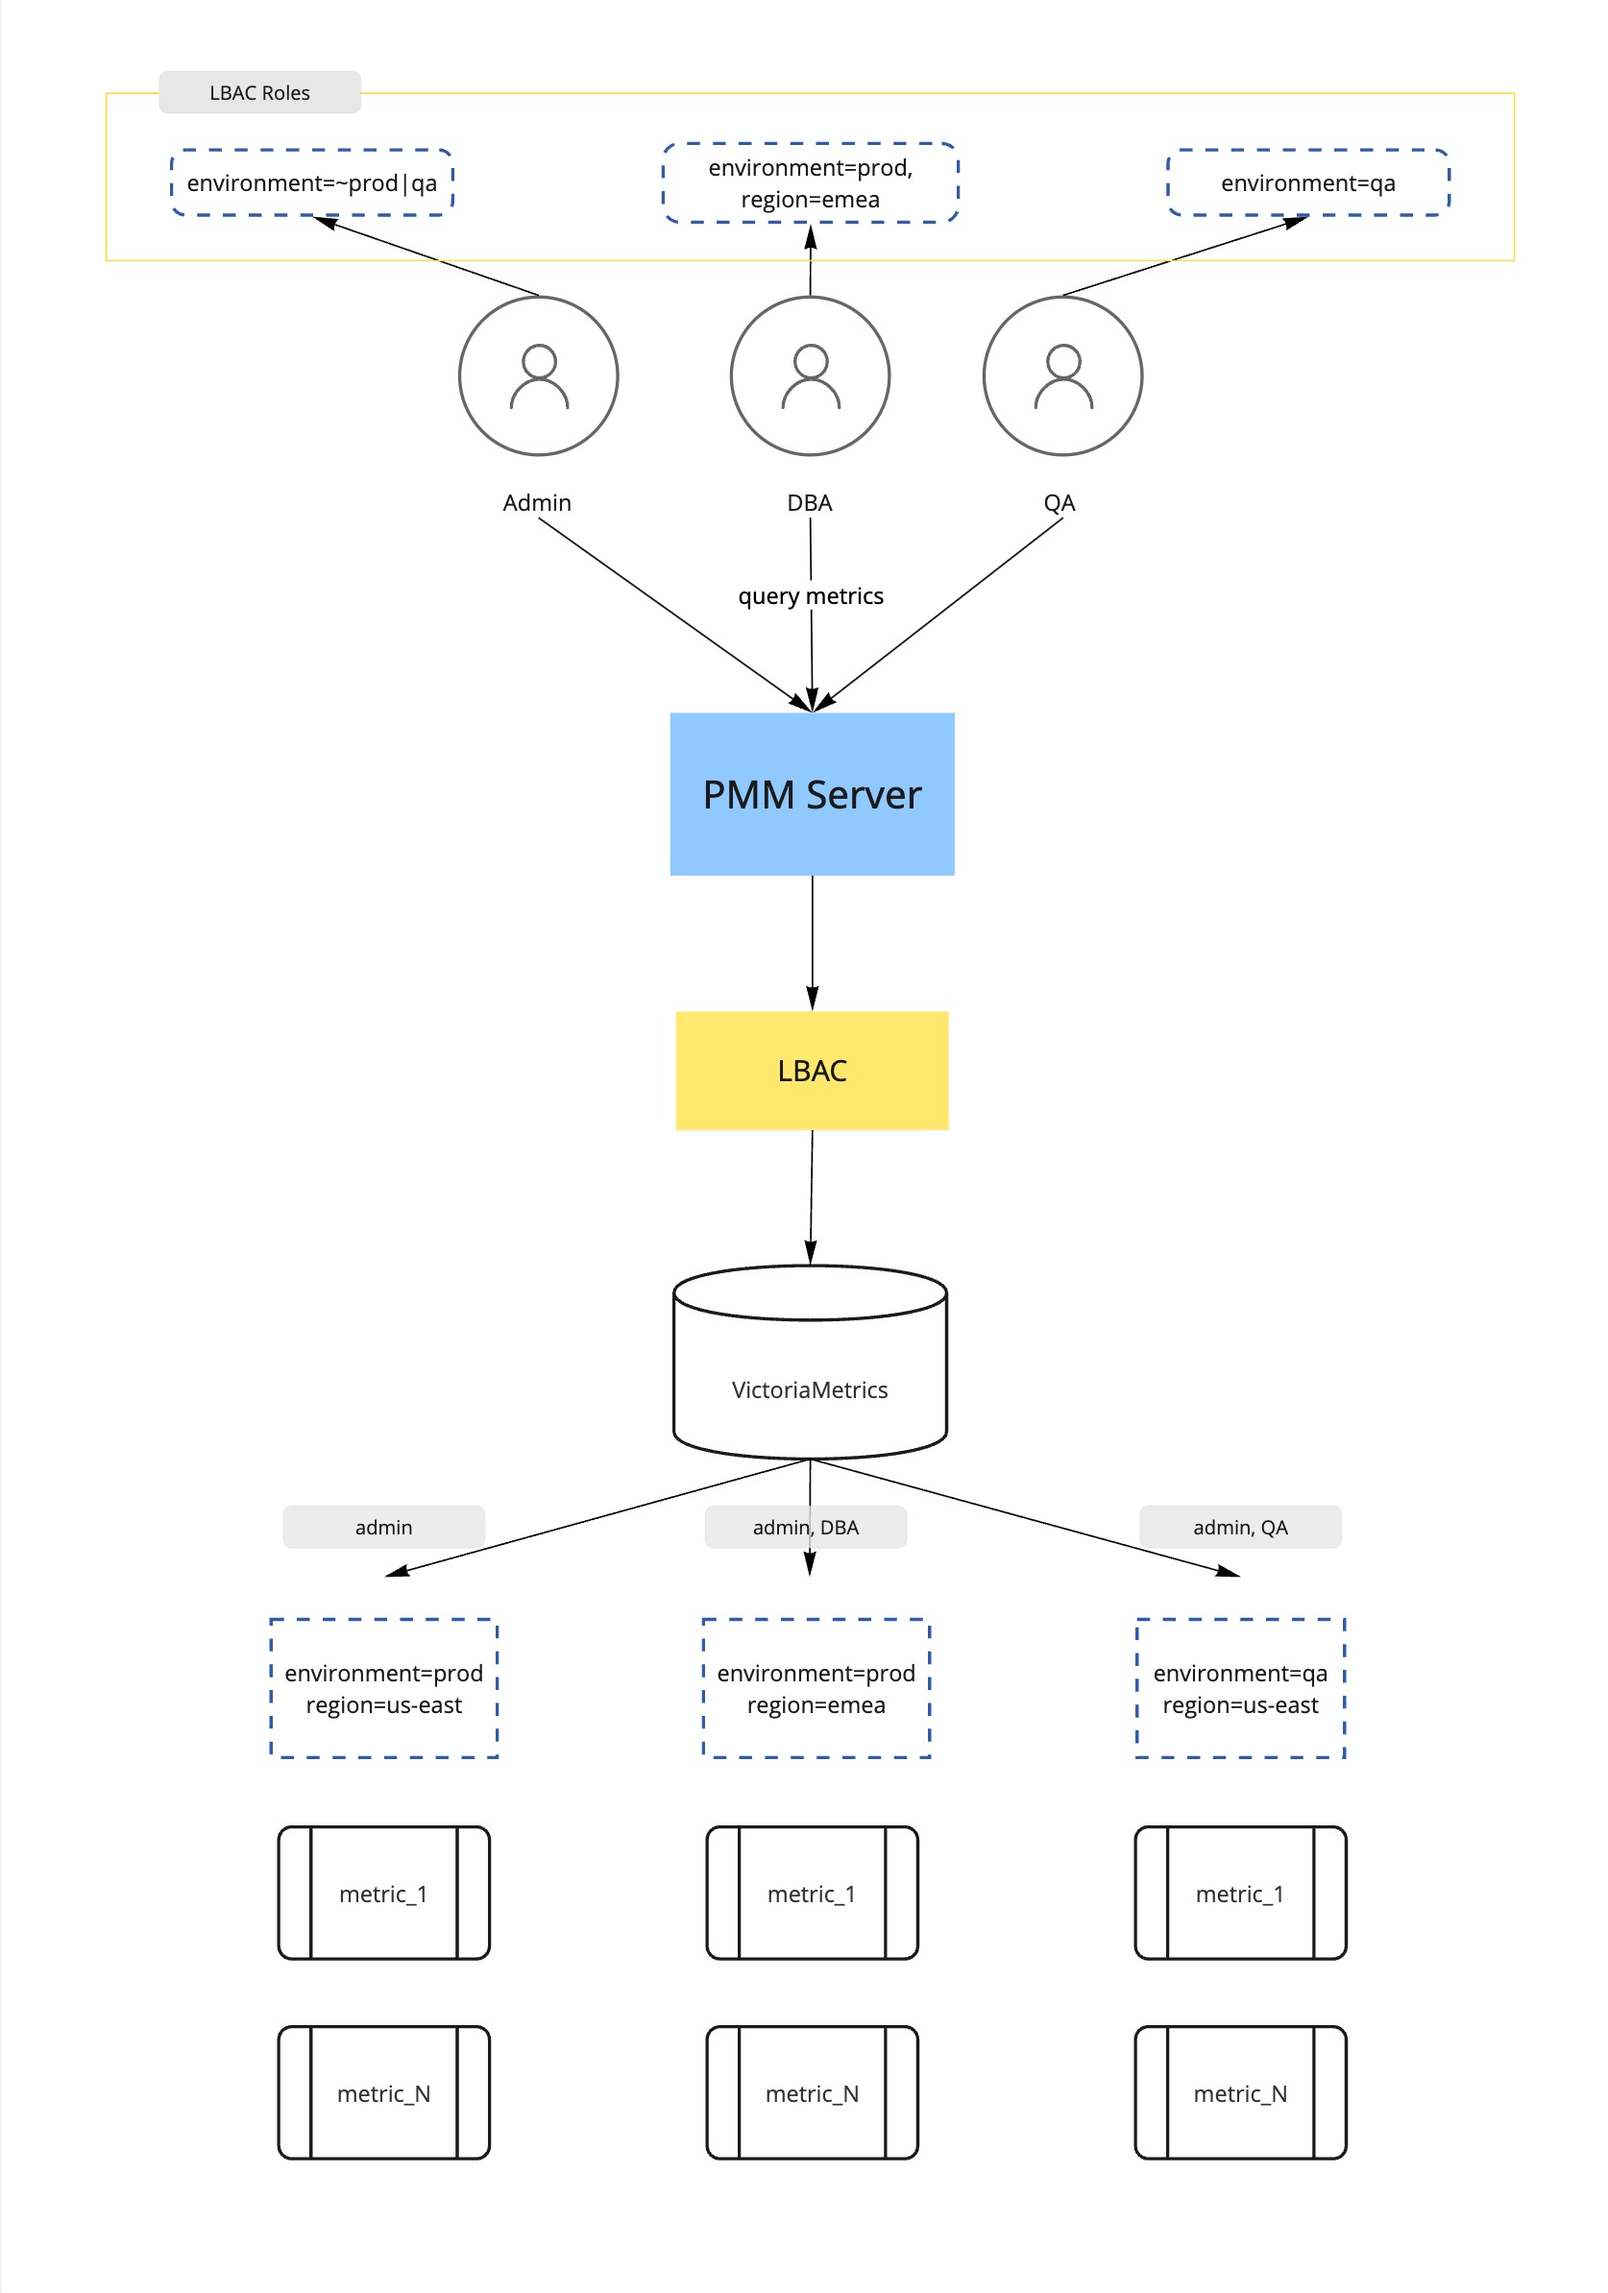
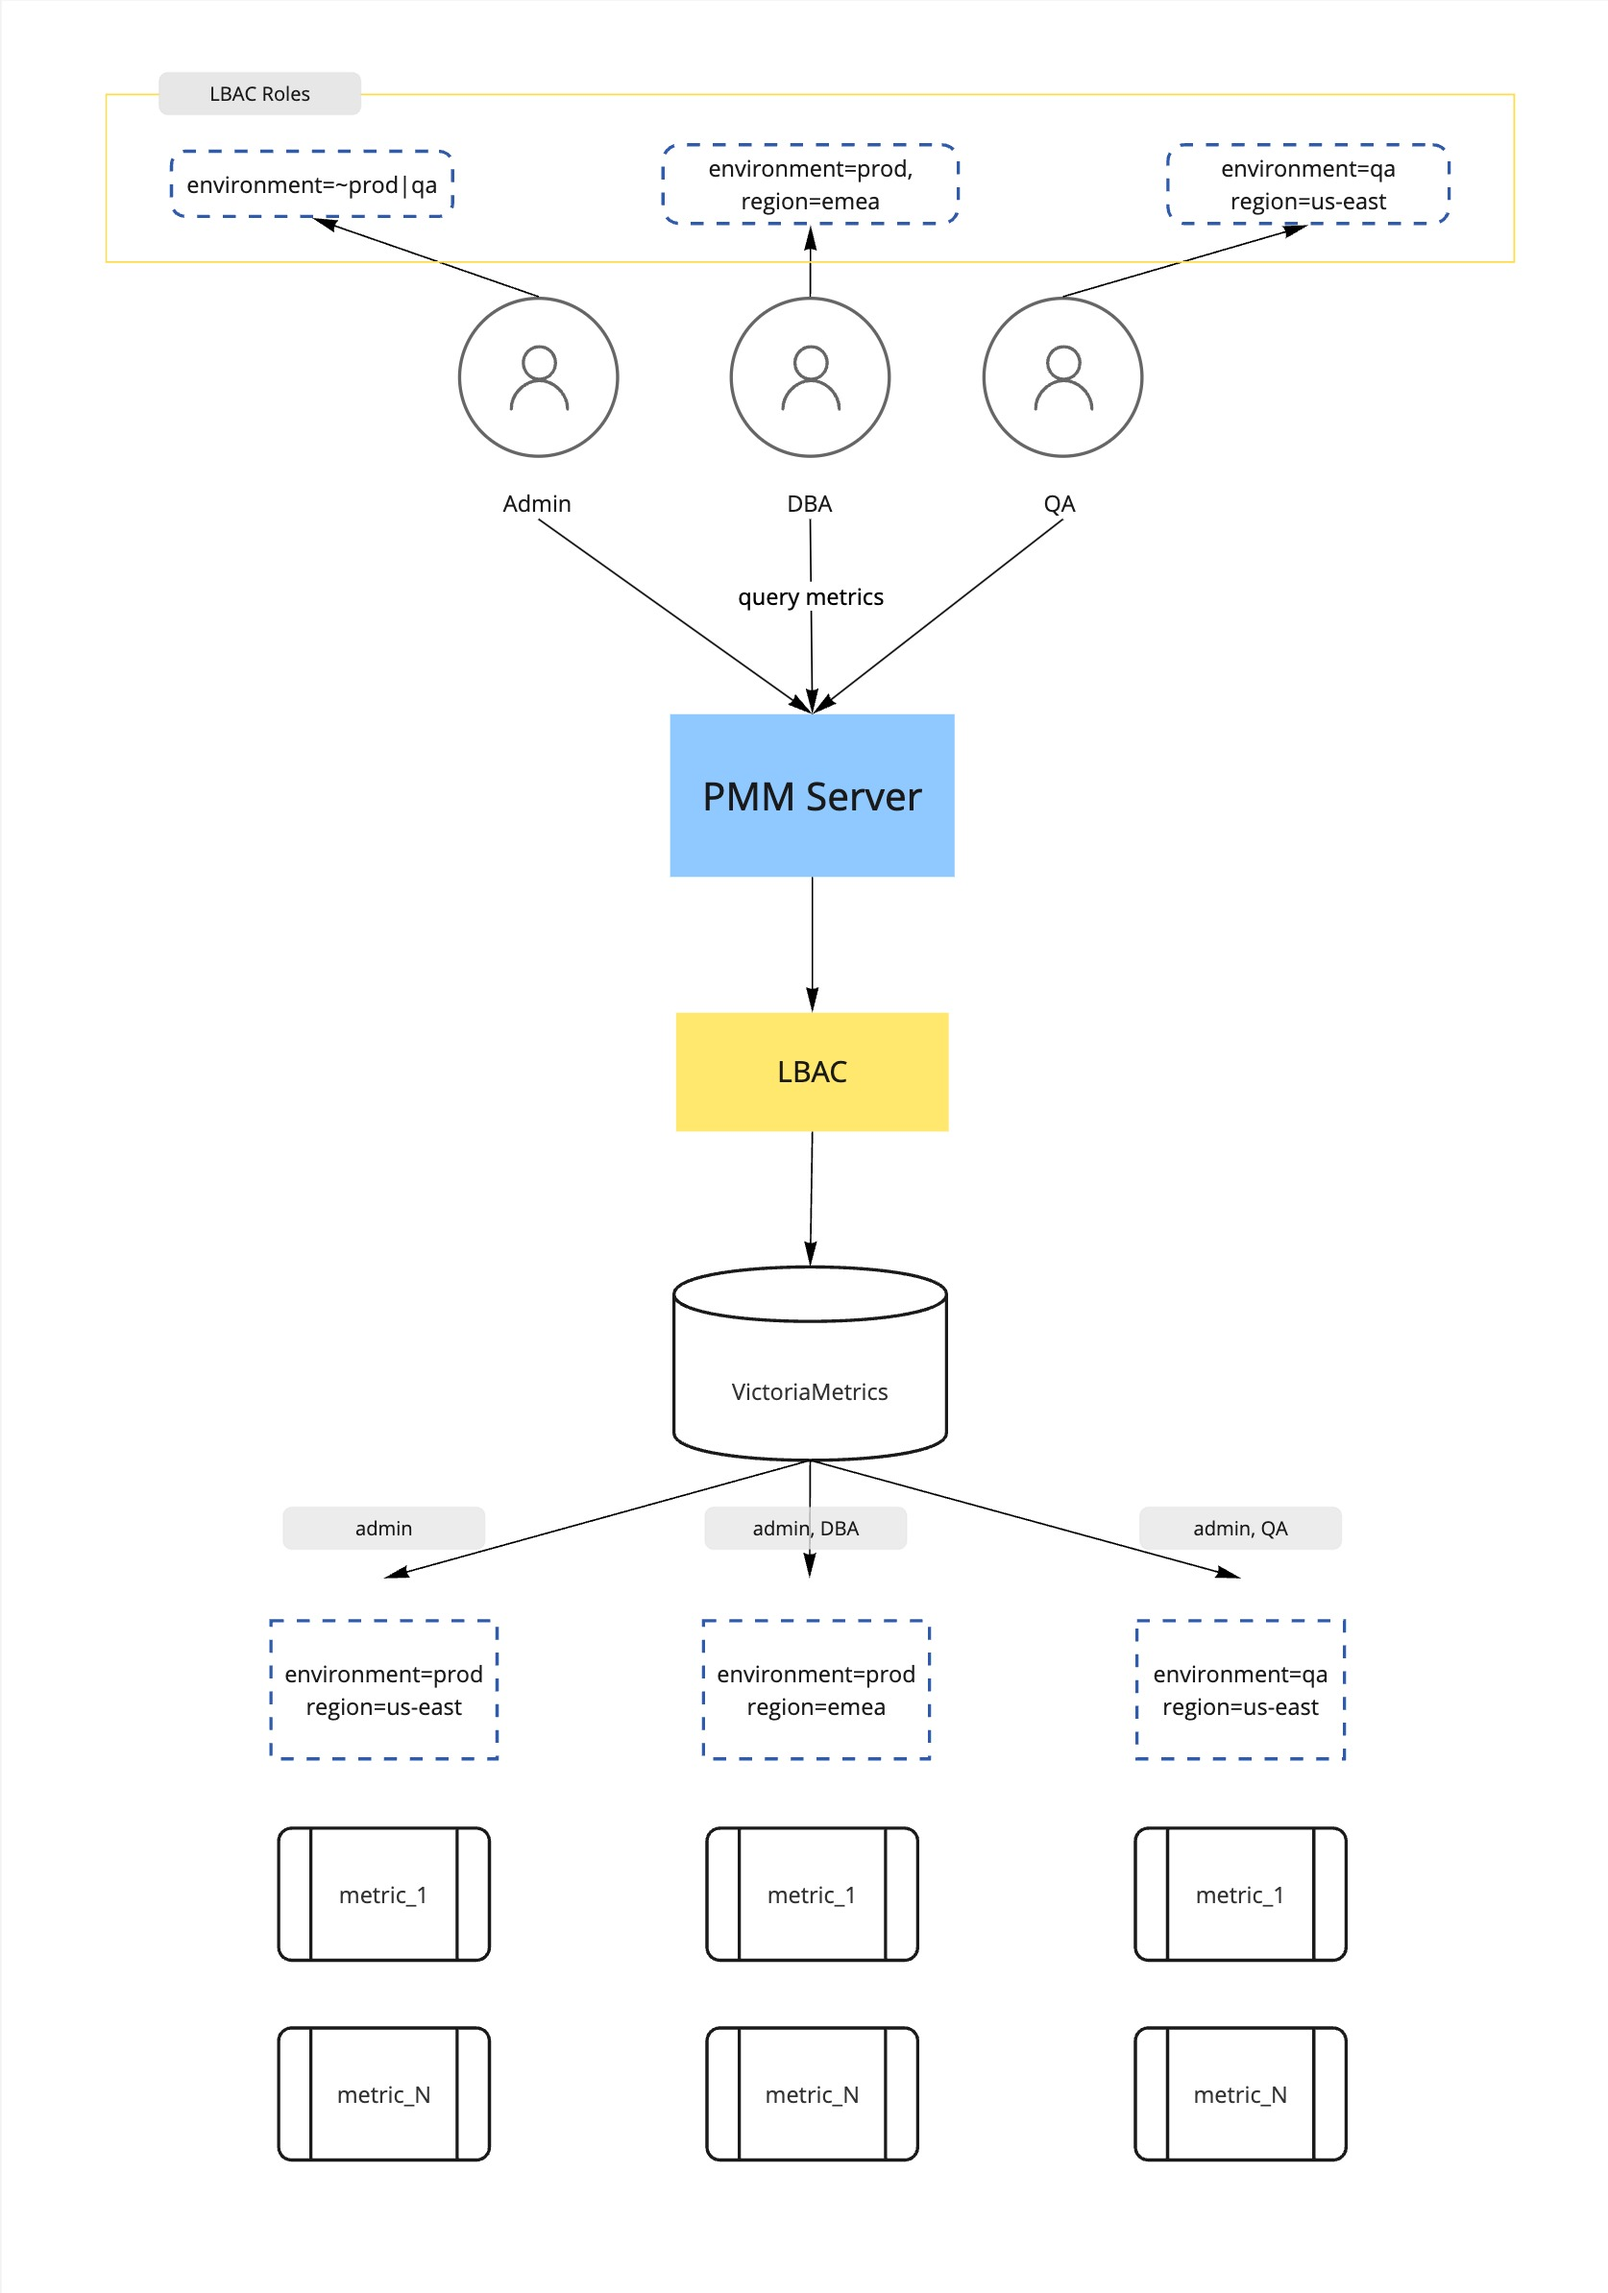
PMM-9146 update the use case diagram

diff --git a/documentation/docs/admin/roles/access-control/use_cases.md b/documentation/docs/admin/roles/access-control/use_cases.md
@@ -2,6 +2,7 @@
 
 An overview of the infrastructure can be seen in the diagram below. PMM monitors several services. The metrics that are stored in VictoriaMetrics have appropriate labels, for example, **environment** and **region**.
 
+  <!-- source: https://miro.com/app/board/uXjVPfHchvM=/ -->
   ![PMM Access Control - Metrics collection](../../../images/lbac/pmm-lbac-collect-metrics.jpg)
 
 
@@ -45,12 +46,8 @@ This use case is a modification of the prior one, it demonstrates the following 
 
 **Labels**
 
-- environment
-  - prod
-  - qa
-- region
-  - us-east
-  - emea
+- environment: **prod**, **qa**
+- region: **us-east**, **emea**
 
 The diagram below shows several roles within a company structure that have access to PMM, as well as the permissions they should be granted:
 
